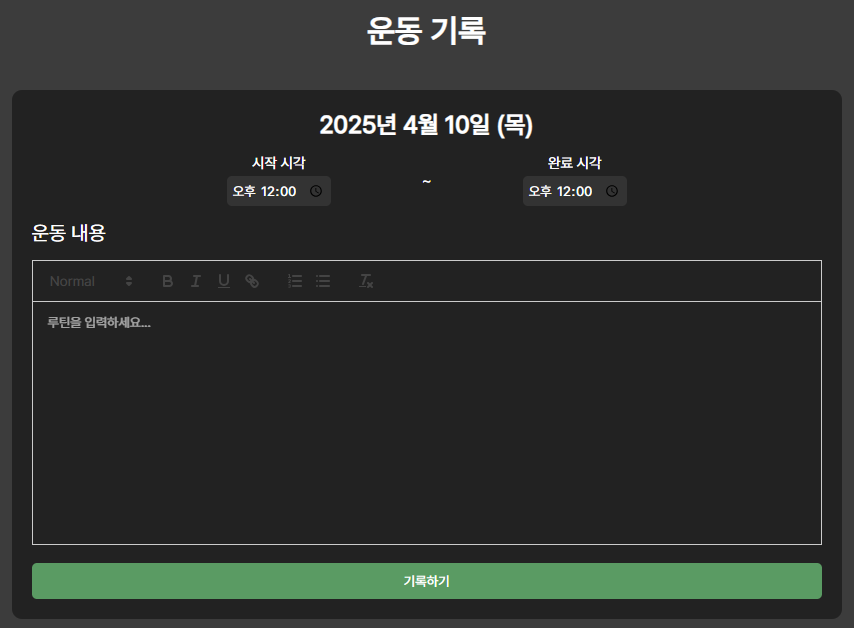
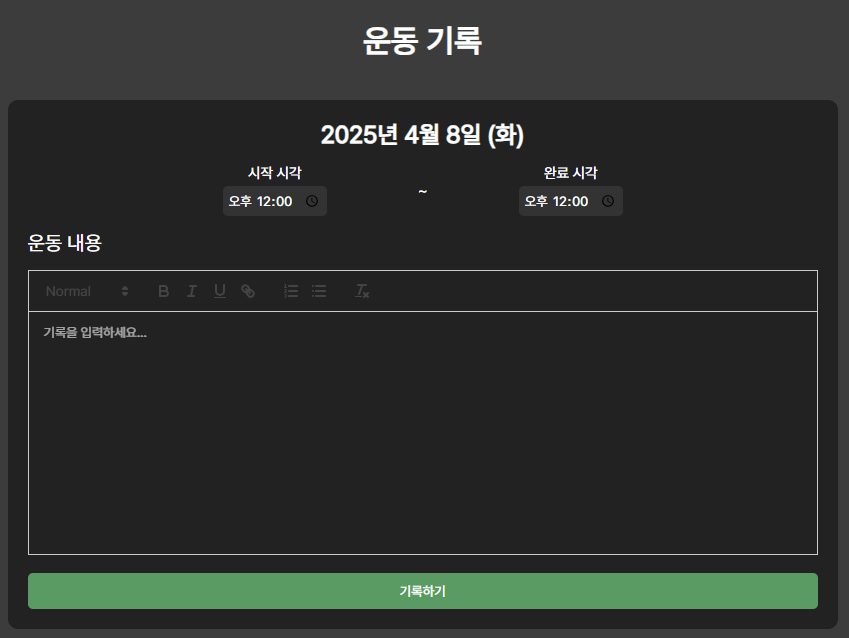
feat : 메인 슬라이더 사진 업데이트

diff --git a/fithub_front/src/component/MyFit/ChatMain.js b/fithub_front/src/component/MyFit/ChatMain.js
@@ -76,7 +76,7 @@ const ChatMain = (props) => {
   const receiveMsg = (receiveData) => {
     //console.log("서버에서 데이터를 받으면 실행되는 함수");
     const data = JSON.parse(receiveData.data); //문자열을 javascript 객체형식으로 전환
-    
+
     if (data.isRead === "isReadOk") {
       const newArr = chatList.map((item) => {
         if (item.senderNo == loginMember.memberNo) {
@@ -143,20 +143,20 @@ const ChatMain = (props) => {
             {chatList.map((chat, index) => {
               const isLastOfGroup = (() => {
                 const next = chatList[index + 1];
-                if (!next) return true; 
-          
+                if (!next) return true;
+
                 const sameSender = next.senderNo === chat.senderNo;
                 const sameMinute =
-                  next.sentAt.substring(0, 16) === chat.sentAt.substring(0, 16); 
-          
+                  next.sentAt.substring(0, 16) === chat.sentAt.substring(0, 16);
+
                 return !(sameSender && sameMinute);
               })();
 
               const isFirstOfGroup = (() => {
                 const prev = chatList[index - 1];
-                if (!prev) return true; 
-              
-                return prev.senderNo !== chat.senderNo; 
+                if (!prev) return true;
+
+                return prev.senderNo !== chat.senderNo;
               })();
 
               return (
@@ -170,50 +170,50 @@ const ChatMain = (props) => {
                   >
                     {isFirstOfGroup && (
                       <div
-                      className="user"
-                      onClick={() => {
-                        navigate(`/myfit/activity/${chat.senderNo}`);
-                      }}
-                    >
-                      <div className="img-wrap">
-                        {chat.senderNo === loginMember.memberNo ? (
-                          <img
-                            src={
-                              loginMember.memberThumb
-                                ? `${process.env.REACT_APP_BACK_SERVER}/member/profileimg/${loginMember.memberThumb}`
-                                : "/image/default_img.png"
-                            }
-                          />
-                        ) : (
-                          <img
-                            src={
-                              actMember.memberThumb
-                                ? `${process.env.REACT_APP_BACK_SERVER}/member/profileimg/${actMember.memberThumb}`
-                                : "/image/default_img.png"
-                            }
-                          />
-                        )}
+                        className="user"
+                        onClick={() => {
+                          navigate(`/myfit/activity/${chat.senderNo}`);
+                        }}
+                      >
+                        <div className="img-wrap">
+                          {chat.senderNo === loginMember.memberNo ? (
+                            <img
+                              src={
+                                loginMember.memberThumb
+                                  ? `${process.env.REACT_APP_BACK_SERVER}/member/profileimg/${loginMember.memberThumb}`
+                                  : "/image/profile.png"
+                              }
+                            />
+                          ) : (
+                            <img
+                              src={
+                                actMember.memberThumb
+                                  ? `${process.env.REACT_APP_BACK_SERVER}/member/profileimg/${actMember.memberThumb}`
+                                  : "/image/profile.png"
+                              }
+                            />
+                          )}
+                        </div>
+                        <span className="chat-id">
+                          {chat.senderNo == loginMember.memberNo
+                            ? loginMember.memberId
+                            : actMember.memberId}
+                        </span>
                       </div>
-                      <span className="chat-id">
-                        {chat.senderNo == loginMember.memberNo
-                          ? loginMember.memberId
-                          : actMember.memberId}
-                      </span>
-                    </div>
                     )}
-                    
+
                     <div className="chat-content-box">
                       <div className="chat-message">{chat.dmContent}</div>
                       {isLastOfGroup && (
-                          <div className="chat-time">
-                            {chat.sentAt.substring(11, 16)}
-                          </div>
-                        )}
-                        {chat.senderNo === Number(senderNo) && (
-                          <div className="is-read">
-                            {chat.isRead === "N" ? 1 : ""}
-                          </div>
-                        )}
+                        <div className="chat-time">
+                          {chat.sentAt.substring(11, 16)}
+                        </div>
+                      )}
+                      {chat.senderNo === Number(senderNo) && (
+                        <div className="is-read">
+                          {chat.isRead === "N" ? 1 : ""}
+                        </div>
+                      )}
                     </div>
                   </p>
                 </div>

diff --git a/fithub_front/src/component/common/IntroSlider.js b/fithub_front/src/component/common/IntroSlider.js
@@ -9,7 +9,7 @@ const slides = [
     KTitle: "날짜별로 운동 루틴과 기록 관리",
     KDescription:
       "날짜를 선택하여 요일별 루틴과 완료한 운동을 기록할 수 있어요.",
-    image: "/image/calendar_record.png",
+    image: "/image/calendar.png",
   },
   {
     ETitle: "Log completed workouts",
@@ -23,21 +23,21 @@ const slides = [
     EDescription: "Customize your routine for each day of the week.",
     KTitle: "요일별 루틴 설정",
     KDescription: "요일별로 루틴을 설정할 수 있어요.",
-    image: "/image/calendarImg.png",
+    image: "/image/routine.png",
   },
   {
     ETitle: "Workout Summary & Statistics",
     EDescription: "Check the summary and statistics of your logged workouts.",
     KTitle: "운동 요약&통계",
     KDescription: "기록된 운동의 요약과 통계를 확인해보세요.",
-    image: "/image/calendarImg.png",
+    image: "/image/sum.png",
   },
   {
     ETitle: "Freely interact with other members",
     EDescription: "Use the community and DMs to interact with fellow members.",
     KTitle: "회원간 자유로운 소통",
     KDescription: "커뮤니티와 DM을 활용하여 다른 회원과 소통해보세요.",
-    image: "/image/calendarImg.png",
+    image: "/image/dm.png",
   },
 ];
 const IntroSlider = () => {
@@ -46,7 +46,7 @@ const IntroSlider = () => {
   useEffect(() => {
     const interval = setInterval(() => {
       setActiveIndex((prev) => (prev + 1) % slides.length);
-    }, 5000);
+    }, 10000);
     return () => clearInterval(interval);
   }, []);
   const handleDotClick = (index) => {
@@ -56,14 +56,16 @@ const IntroSlider = () => {
     <div className="intro-wrap">
       <div className="intro">
         {/* Left text section */}
-        <div className="intro-text">
-          <div className="intro-title">
-            <h2>{slides[activeIndex].KTitle}</h2>
-            <h2>{slides[activeIndex].ETitle}</h2>
-          </div>
-          <div className="intro-description">
-            <p>{slides[activeIndex].KDescription}</p>
-            <p>{slides[activeIndex].EDescription}</p>
+        <div className="intro-item">
+          <div className="intro-text">
+            <div className="intro-title">
+              <h2>{slides[activeIndex].KTitle}</h2>
+              <h2>{slides[activeIndex].ETitle}</h2>
+            </div>
+            <div className="intro-description">
+              <p>{slides[activeIndex].KDescription}</p>
+              <p>{slides[activeIndex].EDescription}</p>
+            </div>
           </div>
         </div>
         {/* Right image section */}

diff --git a/fithub_front/src/component/common/intro.css b/fithub_front/src/component/common/intro.css
@@ -1,6 +1,10 @@
 .main-page-wrap .feature-slide-section {
   padding: 80px;
 }
+.feature-slide-section > h2 {
+  font-size: 38px;
+  margin-bottom: 50px;
+}
 
 .intro-wrap {
   text-align: center;
@@ -12,27 +16,37 @@
   margin: 0 auto;
   align-items: center;
   padding: 40px 0px;
-  gap: 10px;
+  gap: 40px;
 }
 .intro-wrap > .intro {
   width: 100%;
   display: flex;
-  justify-content: space-between;
+  justify-content: space-evenly;
+  align-items: center;
   gap: 30px;
 }
-.intro > .intro-text {
-  width: 50%;
+.intro-wrap > .intro .intro-item {
+  width: 40%;
+}
+.intro .intro-text {
   display: flex;
   flex-direction: column;
   justify-content: center;
   gap: 30px;
   padding: 10px;
 }
-.intro-text > .intro-title {
-  text-indent: 60px;
+.intro-text > .intro-title > h2:first-child {
+  font-size: 34px;
 }
-.intro-text > .intro-description {
-  text-indent: 80px;
+.intro-text > .intro-title > h2:last-child {
+  font-size: 20px;
+}
+
+.intro-text > .intro-description > p:first-child {
+  font-size: 18px;
+}
+.intro-text > .intro-description > p:last-child {
+  font-size: 14px;
 }
 .intro-text > .intro-btn-wrap {
   padding-top: 100px;
@@ -42,7 +56,7 @@
   width: 200px;
 }
 .intro > .intro-img {
-  padding: 30px;
+  padding: 15px;
   width: 700px;
   height: 500px;
   background-color: var(--gray1);

diff --git a/fithub_front/src/component/MyFit/DmList.js b/fithub_front/src/component/MyFit/DmList.js
@@ -42,7 +42,7 @@ const DmList = (props) => {
                     src={
                       dm.otherMemberThumb
                         ? `${process.env.REACT_APP_BACK_SERVER}/member/profileimg/${dm.otherMemberThumb}`
-                        : "/image/default_img.png"
+                        : "/image/profile.png"
                     }
                     className="avatar"
                   />

diff --git a/fithub_front/src/component/MyFit/Follow.js b/fithub_front/src/component/MyFit/Follow.js
@@ -73,7 +73,7 @@ const Follow = (props) => {
                     src={
                       member.memberThumb
                         ? `${process.env.REACT_APP_BACK_SERVER}/member/profileimg/${member.memberThumb}`
-                        : "/image/default_img.png"
+                        : "/image/profile.png"
                     }
                     className="avatar"
                   />

diff --git a/fithub_front/src/component/MyFit/ProfileCard .js b/fithub_front/src/component/MyFit/ProfileCard .js
@@ -49,7 +49,7 @@ const ProfileCard = (props) => {
                 src={
                   actMember.memberThumb
                     ? `${process.env.REACT_APP_BACK_SERVER}/member/profileimg/${actMember.memberThumb}`
-                    : "/image/default_img.png"
+                    : "/image/profile.png"
                 }
               />
             </div>

diff --git a/fithub_front/src/component/MyFit/ExerciseLog.js b/fithub_front/src/component/MyFit/ExerciseLog.js
@@ -83,7 +83,7 @@ const ExerciseLog = (props) => {
           onChange={(value) => {
             setText(value);
           }}
-          placeholder="루틴을 입력하세요..."
+          placeholder="기록을 입력하세요..."
         />
       </div>
       <button

diff --git a/fithub_front/src/component/MyFit/routineSetting.css b/fithub_front/src/component/MyFit/routineSetting.css
@@ -62,6 +62,6 @@
 }
 
 .routine-wrap .quill .ql-editor {
-  height: 200px;
+  height: 250px;
   overflow-y: auto;
 }
